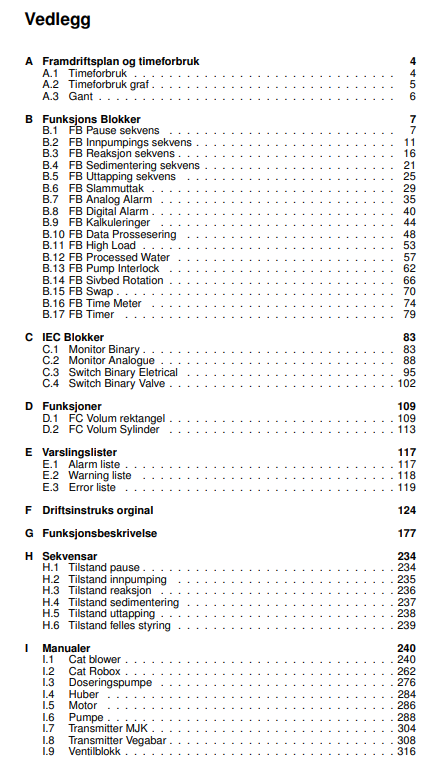
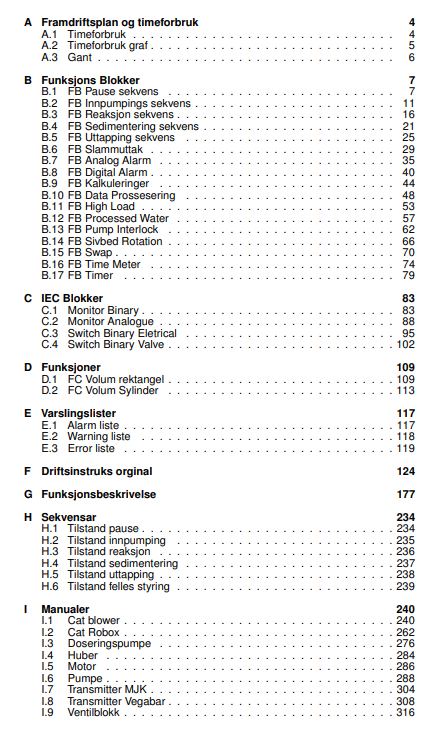
Endret tilbake skalering, la till rød prikk.

diff --git a/Latex1/Appendix/Vedlegg.tex b/Latex1/Appendix/Vedlegg.tex
@@ -5,14 +5,14 @@
 
 \begin{figure}[H]
     \centering
-    \includegraphics[width=0.78\textwidth]{Appendix/ListeAvVedlegg1.png}
+    \includegraphics[width=0.8\textwidth]{Appendix/ListeAvVedlegg1.png}
     \caption*{} % Exclude from list of figures
     \label{fig:VedlegListe1}
 \end{figure}
 
 \begin{figure}[H]
     \centering
-    \includegraphics[width=0.78\textwidth]{Appendix/ListeAvVedlegg2.png}
+    \includegraphics[width=0.8\textwidth]{Appendix/ListeAvVedlegg2.png}
     \caption*{} % Exclude from list of figures
     \label{fig:VedlegListe2}
 \end{figure}
